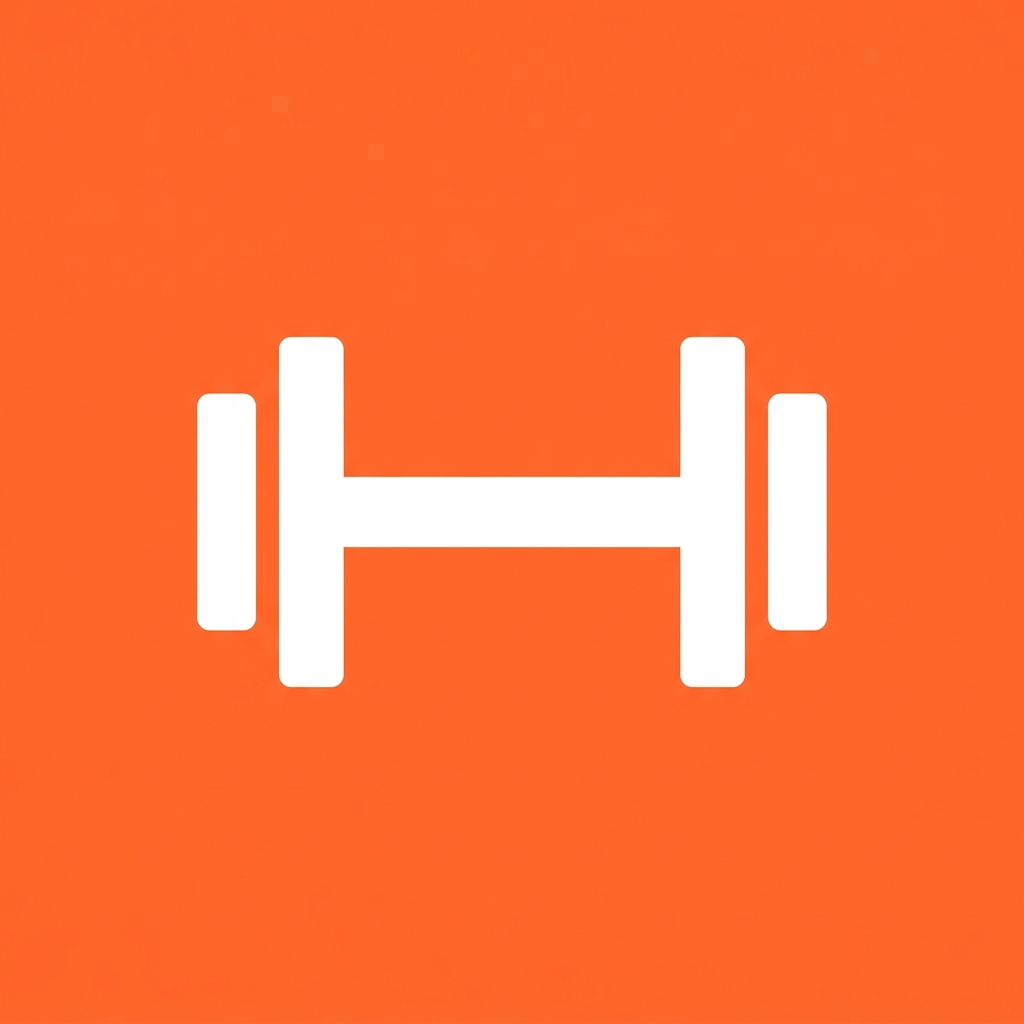
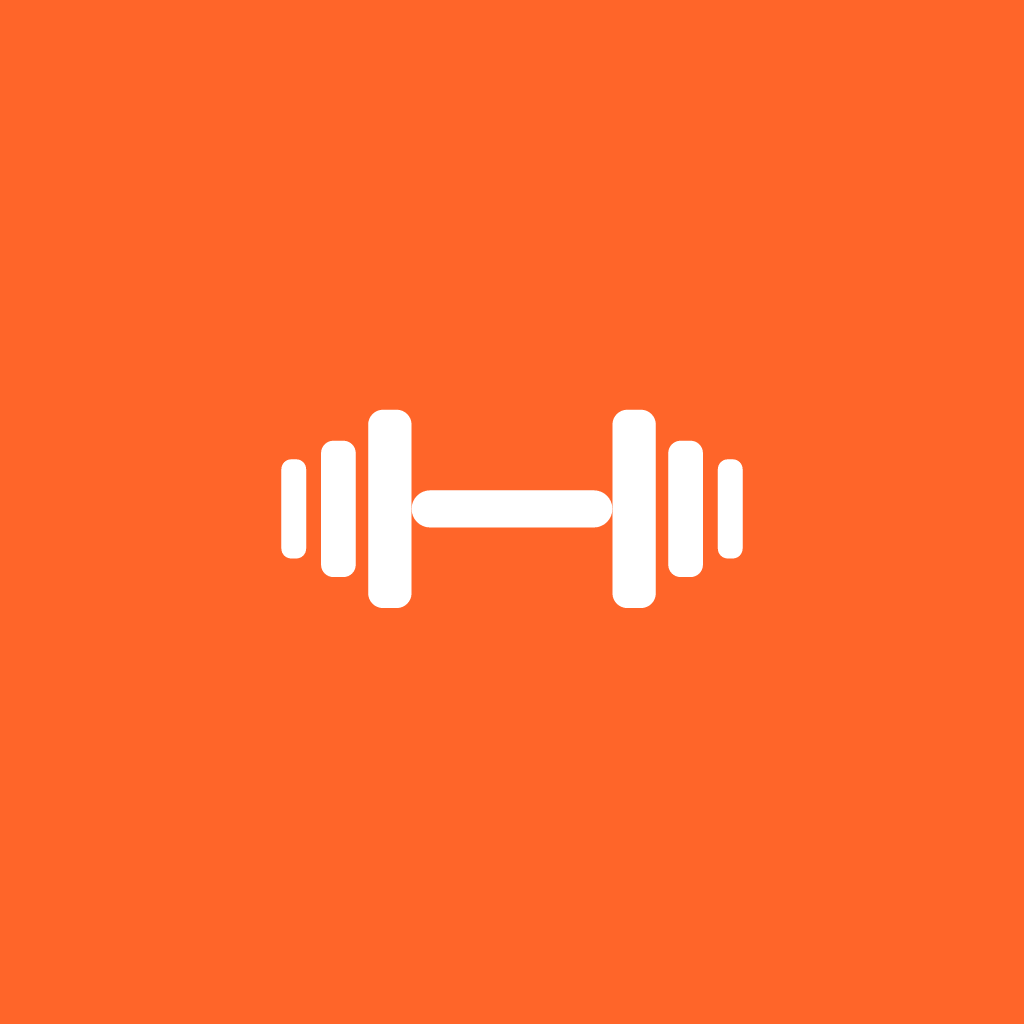
feat: completar identidade visual do halter em todas as plataformas
O icone (icon.png/favicon.png) ja tinha sido gerado com o halter
laranja (gerado no Gemini pelo Victor como teste), mas a integracao
ficou pela metade: Android e iOS ainda usavam os assets padrao do
template Expo, e havia um bug real (splash-icon.png era um arquivo
quase vazio, 228x213, referenciado no app.json como imagem do splash).

Reconstruido o halter como vetor SVG limpo (mesma composicao do
original, sem o ruido/granulado tipico de imagem gerada por IA),
usado como fonte unica para gerar todos os assets que faltavam:

- assets/images/android-icon-foreground.png: halter branco,
  transparente, dentro da safe zone do icone adaptativo Android
  (~62% do canvas) - antes era o chevron azul padrao do Expo
- assets/images/android-icon-background.png: laranja solido - antes
  era literalmente o grid-guia padrao do template Expo (nao um asset
  final)
- assets/images/android-icon-monochrome.png: mesma forma em branco -
  antes era a seta cinza padrao do Expo
- assets/expo.icon/: substituido o simbolo azul padrao do Expo pelo
  halter (SVG + icon.json com fill laranja extended-srgb equivalente)
- assets/images/splash-icon.png: corrigido o bug do arquivo quase
  vazio - agora o halter branco, recorte justo
- assets/images/splash-icon-light.png / splash-icon-dark.png: versoes
  para os dois temas (laranja sobre fundo claro / branco sobre fundo
  escuro)
- assets/images/logo-mark.png: regenerado a partir do vetor, mesmo
  visual, mais nitido
[…]

Changed region(s): [[0.1875, 0.3125, 0.8125, 0.6875]]

diff --git a/src/components/app-tabs.web.tsx b/src/components/app-tabs.web.tsx
@@ -55,7 +55,7 @@ export function CustomTabList(props: TabListProps) {
     <View {...props} style={styles.tabListContainer}>
       <ThemedView type="backgroundElement" style={styles.innerContainer}>
         <ThemedText type="smallBold" style={styles.brandText}>
-          Expo Starter
+          ShapeFit
         </ThemedText>
 
         {props.children}
